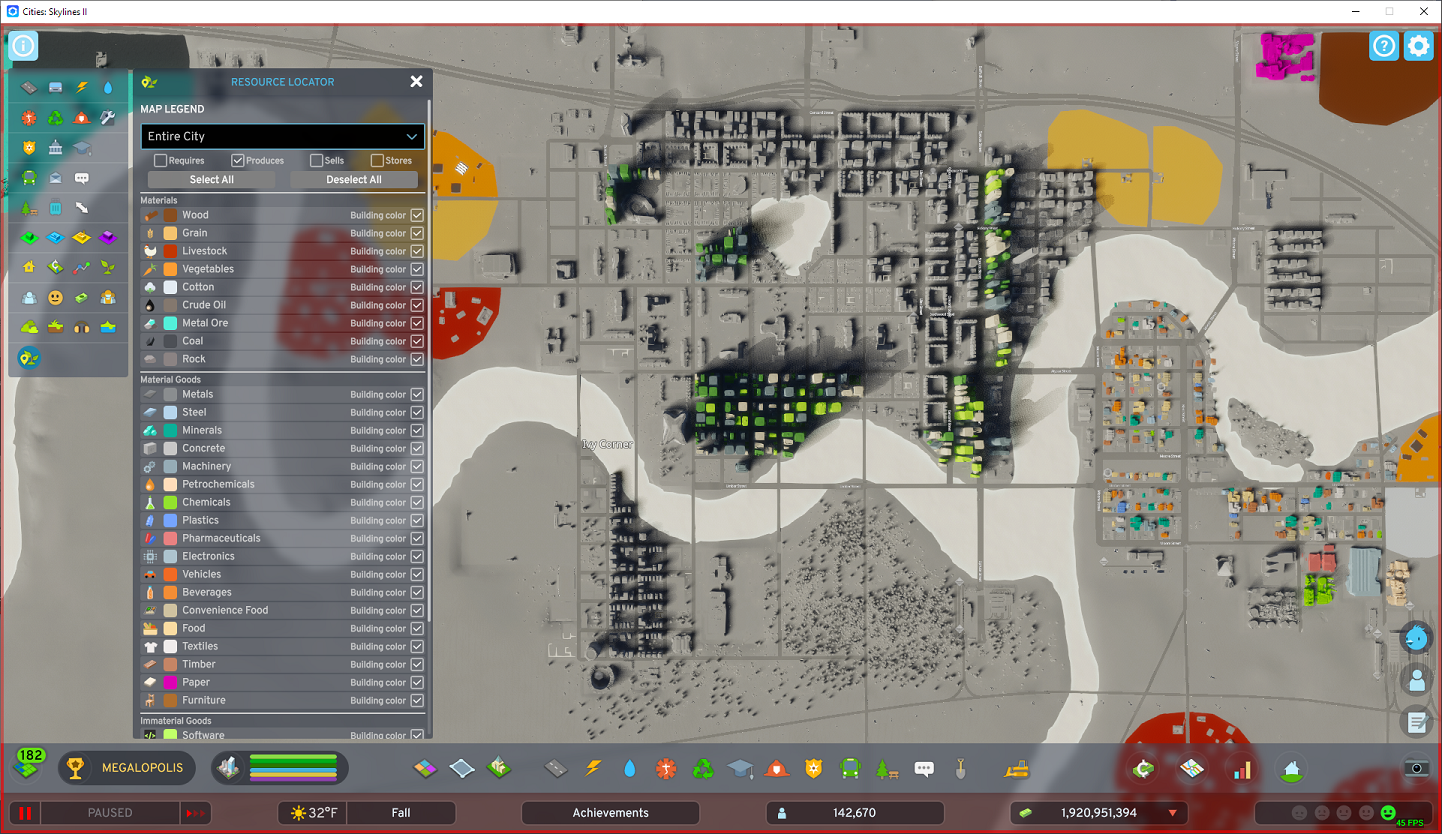
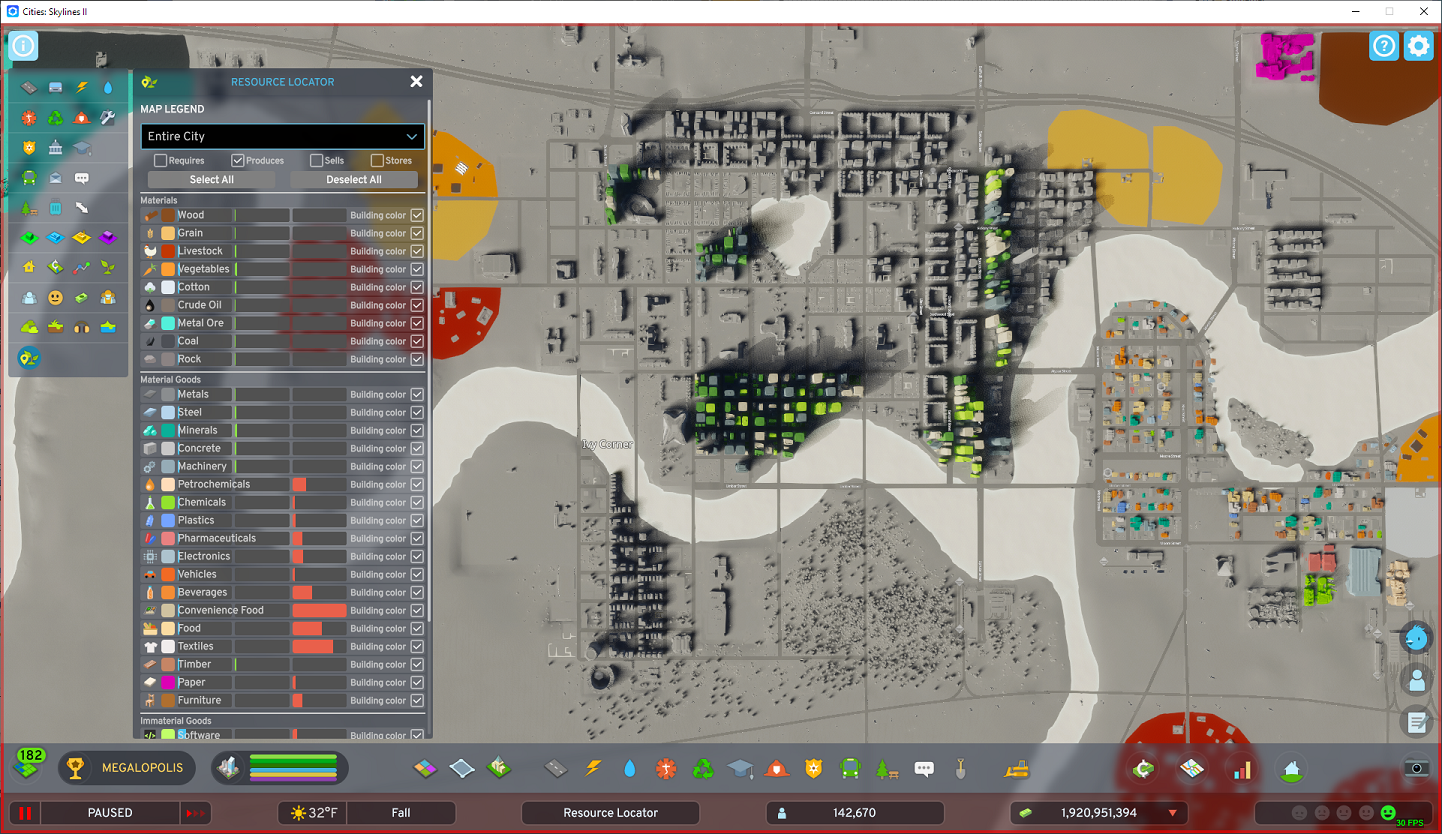
Version 1.1.0

Changed region(s): [[0.0936, 0.2494, 0.2497, 0.9041], [0.3745, 0.9664, 0.4681, 0.9976], [0.0624, 0.9664, 0.0936, 0.9976]]

diff --git a/UI/src/infomodeItem.tsx b/UI/src/infomodeItem.tsx
@@ -8,7 +8,7 @@ import   styles                           from "infomodeItem.module.scss";
 import   mod                              from "../mod.json";
 import { ModuleResolver                 } from "moduleResolver";
 import { uiBindingNames                 } from "uiBindings";
-import { RLBuildingType                 } from "uiConstants";
+import { DisplayOption, RLBuildingType  } from "uiConstants";
 import { UITranslationKey               } from "uiTranslationKey";
 
 // Define production info passed from C#.
@@ -36,8 +36,9 @@ interface InfomodeItemProps
 }
 
 // Define bindings.
+const bindingDisplayOption   = bindValue<number          >(mod.id, uiBindingNames.DisplayOption, DisplayOption.Requires);
 const bindingProductionInfos = bindValue<ProductionInfo[]>(mod.id, uiBindingNames.ProductionInfos);
-const bindingUnitSettings    = bindValue<UnitSettings>("options", "unitSettings");
+const bindingUnitSettings    = bindValue<UnitSettings    >("options", "unitSettings");
 
 // Custom infmode item.
 // Adapted from the base game's infomode logic.
@@ -53,26 +54,49 @@ export const InfomodeItem = ({ infomode, buildingType }: InfomodeItemProps) =>
     const surplusText        = translate("EconomyPanel.PRODUCTION_PAGE_SURPLUS")
     const deficitText        = translate("EconomyPanel.PRODUCTION_PAGE_DEFICIT")
 
-    // Get production info for this building type.
+    // Get display option.
+    const displayOption = useValue(bindingDisplayOption);
+
+    // Get production info.
     const productionInfos: ProductionInfo[] = useValue(bindingProductionInfos);
-    var production: number = 0;
-    var surplus:    number = 0;
-    var deficit:    number = 0;
+    var production:   number = 0;
+    var surplus:      number = 0;
+    var deficit:      number = 0;
+    var maxAllValues: number = 0;
     for (var i: number = 0; i < productionInfos.length; i++)
     {
+        // Check for building type of this infomode.
         const productionInfo: ProductionInfo = productionInfos[i];
         if (productionInfo.buildingType === buildingType)
         {
             production = productionInfo.production;
             surplus    = productionInfo.surplus;
             deficit    = productionInfo.deficit;
-            break;
         }
+
+        // Get max of all values.
+        maxAllValues = Math.max(maxAllValues, productionInfo.production, productionInfo.surplus, productionInfo.deficit);
     }
+
+    // Compute percents for production info values.
+    // Percent is computed compared to the max of all values.
+    // This matches the game's Production tab on the City Economy panel.
+    const percentProduction: number = maxAllValues === 0 ? 0 : Math.min(100 * production / maxAllValues, 100);
+    const percentSurplus:    number = maxAllValues === 0 ? 0 : Math.min(100 * surplus    / maxAllValues, 100);
+    const percentDeficit:    number = maxAllValues === 0 ? 0 : Math.min(100 * deficit    / maxAllValues, 100);
+
+    // Compute styles to display production info progress bars.
+    // Colors are same as on the game's Production tab on the City Economy panel.
+    const styleProductionColor:   Partial<CSSProperties> = { backgroundColor: "var(--progressColor)", }
+    const styleSurplusColor:      Partial<CSSProperties> = { backgroundColor: "var(--positiveColor)", }
+    const styleDeficitColor:      Partial<CSSProperties> = { backgroundColor: "var(--negativeColor)", }
+    const styleProductionPercent: Partial<CSSProperties> = { marginLeft: percentProduction + "%", }
+    const styleSurplusPercent:    Partial<CSSProperties> = { marginLeft: percentSurplus    + "%", }
+    const styleDeficitPercent:    Partial<CSSProperties> = { marginLeft: percentDeficit    + "%", }
 
     // Get maximum of production, surplus, and deficit.
     // This maximum is used so that production and surplus/deficit have the same scaling factor and units of measure.
-    const maxValue = Math.max(production, surplus, deficit);
+    const maxValue: number = Math.max(production, surplus, deficit);
 
     // Get scaling factor and unit of measure prefix and text.
     var scalingFactor: number = 1;
@@ -129,12 +153,9 @@ export const InfomodeItem = ({ infomode, buildingType }: InfomodeItemProps) =>
     }
 
     // Apply scaling factor.
-    if (scalingFactor !== 1)
-    {
-        production = Math.round(production / scalingFactor);
-        surplus    = Math.round(surplus    / scalingFactor);
-        deficit    = Math.round(deficit    / scalingFactor);
-    }
+    const scaledProduction: number = Math.round(production / scalingFactor);
+    const scaledSurplus:    number = Math.round(surplus    / scalingFactor);
+    const scaledDeficit:    number = Math.round(deficit    / scalingFactor);
 
     // Remove variable placeholders from unit of measure text.
     uomText = "" + uomText?.replace("{SIGN}{VALUE}", "");
@@ -152,9 +173,9 @@ export const InfomodeItem = ({ infomode, buildingType }: InfomodeItemProps) =>
     // Deficit has a positive value.
     // If both surplus and deficit are zero, the zero value will be shown as surplus.
     infomodeTooltip +=
-        "\n\n" +                productionText + ":  " + FormatValue(production) +
-        "\n\n" + (deficit > 0 ? deficitText    + ":  " + FormatValue(deficit   ) :
-                                surplusText    + ":  " + FormatValue(surplus   ));
+        "\n\n" +                productionText + ":  " + FormatValue(scaledProduction) +
+        "\n\n" + (deficit > 0 ? deficitText    + ":  " + FormatValue(scaledDeficit   ) :
+                                surplusText    + ":  " + FormatValue(scaledSurplus   ));
 
     // Get icon based on building type.
     // This logic assumes all building type enum names are the same as the resource file names.
@@ -203,15 +224,48 @@ export const InfomodeItem = ({ infomode, buildingType }: InfomodeItemProps) =>
                             <div className={joinClasses(ModuleResolver.instance.ColorLegendClasses.symbol,
                                                         ModuleResolver.instance.InfomodeItemClasses.color,
                                                         styles.resourceLocatorInfomodeColorSymbol)} style={symbolStyle}></div>
-                            <div className={ModuleResolver.instance.InfomodeItemClasses.titleText}>{infomodeTitle}</div>
-                        </div>
-                        <div className={ModuleResolver.instance.InfomodeItemClasses.type}>
-                            {buildingColor}
-                            <div className={joinClasses(ModuleResolver.instance.CheckboxClasses.toggle,
-                                                        ModuleResolver.instance.InfomodeItemClasses.checkbox,
-                                                        (infomode.active ? "checked" : "unchecked"))}>
-                                <div className={joinClasses(ModuleResolver.instance.CheckboxClasses.checkmark,
-                                                            (infomode.active ? "checked" : ""))}></div>
+                            {
+                                displayOption === DisplayOption.Produces &&
+                                (
+                                    <div className={styles.resourceLocatorInfomodeProducesBars}>
+                                        <div className={styles.resourceLocatorInfomodeProducesBar}>
+                                            <div className={styles.resourceLocatorInfomodeProducesBarPercent} style={styleProductionColor}>
+                                                <div className={styles.resourceLocatorInfomodeProducesBarCover} style={styleProductionPercent}></div>
+                                            </div>
+                                        </div>
+                                        <div className={styles.resourceLocatorInfomodeProducesBar}>
+                                            <div className={styles.resourceLocatorInfomodeProducesBarPercent} style={styleSurplusColor}>
+                                                <div className={styles.resourceLocatorInfomodeProducesBarCover} style={styleSurplusPercent}></div>
+                                            </div>
+                                        </div>
+                                        <div className={styles.resourceLocatorInfomodeProducesBar}>
+                                            <div className={styles.resourceLocatorInfomodeProducesBarPercent} style={styleDeficitColor}>
+                                                <div className={styles.resourceLocatorInfomodeProducesBarCover} style={styleDeficitPercent}></div>
+                                            </div>
+                                        </div>
+                                        <div className={styles.resourceLocatorInfomodeProducesResourceLabel}>
+                                            {infomodeTitle}
+                                        </div>
+                                    </div>
+                                )
+                            }
+                            {
+                                displayOption !== DisplayOption.Produces &&
+                                (
+                                    <div className={styles.resourceLocatorInfomodeGeneralResourceLabel}>
+                                        {infomodeTitle}
+                                    </div>
+                                )
+                            }
+                            <div className={joinClasses(ModuleResolver.instance.InfomodeItemClasses.type,
+                                                        styles.resourceLocatorInfomodeBuildingColor)}>
+                                {buildingColor}
+                                <div className={joinClasses(ModuleResolver.instance.CheckboxClasses.toggle,
+                                    ModuleResolver.instance.InfomodeItemClasses.checkbox,
+                                    (infomode.active ? "checked" : "unchecked"))}>
+                                    <div className={joinClasses(ModuleResolver.instance.CheckboxClasses.checkmark,
+                                        (infomode.active ? "checked" : ""))}></div>
+                                </div>
                             </div>
                         </div>
                     </div>

diff --git a/UI/src/infomodeItem.module.scss b/UI/src/infomodeItem.module.scss
@@ -13,11 +13,75 @@
 .resourceLocatorInfomodeIcon {
     height:             22rem;          // Larger than building color check box because all resource icons have extra blank space.
     width:              22rem;          // Match height.
-    margin-right:       7rem;           // Space between icon and color symbol.
+    margin-right:       4rem;           // Space between icon and color symbol.
 }
 
 .resourceLocatorInfomodeColorSymbol {
     height:             18rem;          // Match height of building color check box.
     width:              18rem;          // Match height.
-    margin-right:       7rem;           // Space between color symbol and title.
+    margin-right:       4rem;           // Space between color symbol and title.
+}
+
+.resourceLocatorInfomodeProducesBars {
+    display:            flex;
+    flex-direction:     row;
+    flex-grow:          1;
+    flex-shrink:        1;
+    flex-basis:         auto;
+    position:           relative;
+    height:             18rem;
+}
+
+.resourceLocatorInfomodeProducesBar {
+    margin-right:       4rem;
+    height:             18rem;
+    flex-grow:          1;
+    flex-basis:         32%;    // Less than 33.33% to provide space for right margin.
+
+    // Copied from game's Production progress bars:
+    background-color:   rgba(0, 0, 0, 0.22);
+    border-radius:      3rem;
+    position:           relative;
+}
+
+.resourceLocatorInfomodeProducesBarPercent {
+    width:              100%;
+    height:             100%;
+    position:           relative;
+    overflow-x:         hidden;
+    overflow-y:         hidden;
+    border-radius:      3rem;
+}
+
+.resourceLocatorInfomodeProducesBarCover {
+    width:              100%;
+    height:             100%;
+    position:           relative;
+    overflow-x:         hidden;
+    overflow-y:         hidden;
+    background-color:   rgba(80, 80, 80, 1);
+}
+
+.resourceLocatorInfomodeProducesResourceLabel {
+    position:           absolute;
+    // Set top so that text is centered vertically based on font size.
+    top:                calc(-2rem - (10rem * (var(--fontScale) - 1)));
+    left:               0px;
+    bottom:             0px;
+    right:              0px;
+    font-size:          var(--fontSizeS)
+}
+
+.resourceLocatorInfomodeGeneralResourceLabel {
+    // Set top margin to align general text with Produces text.
+    margin-top:         calc(-4rem - (15rem * (var(--fontScale) - 1)));
+    flex-grow:          1;
+    flex-shrink:        1;
+    font-size:          var(--fontSizeS);
+    height:             18rem;
+}
+
+.resourceLocatorInfomodeBuildingColor {
+    flex-grow:          0;
+    flex-shrink:        0;
 }

diff --git a/Systems/BuildingColorSystem.cs b/Systems/BuildingColorSystem.cs
@@ -1191,14 +1191,14 @@ namespace ResourceLocator
             // Prevent these jobs from running again until last job is complete.
             base.Dependency = jobHandleSubObject;
 
-            // Wait for the main building job to complete.
+            // Wait for the attachment building job to complete.
             // This seems to help prevent screen flicker.
-            jobHandleMainBuilding.Complete();
+            jobHandleAttachmentBuilding.Complete();
             
             // Dispose of native collections no longer needed once the main building job is complete.
             activeInfomodes.Dispose();
 
-            // Note that the jobs after the main building job could still be executing at this point, which is okay.
+            // Note that the jobs after the attachment building job could still be executing at this point, which is okay.
 
             // This system handled building colors for this mod's infoview.
             // Do not execute the original game logic.

diff --git a/ModAssemblyInfo/ModAssemblyInfo.cs b/ModAssemblyInfo/ModAssemblyInfo.cs
@@ -10,7 +10,7 @@ namespace ResourceLocator
     public class ModAssemblyInfo
     {
         public const string Name        = "ResourceLocator";
-        public const string Version     = "1.0.1";
+        public const string Version     = "1.1.0";
         public const string Title       = "Resource Locator";
         public const string Description = "New info view to locate buildings where resources are required, produced, sold, and stored.";
     }

diff --git a/ReadMe.md b/ReadMe.md
@@ -35,6 +35,7 @@ Hover the cursor over a resource to get additional information about that resour
 - Whether this resource can be imported/exported or the resource is available only locally.
 - The current production of this resource.
 - The current surplus or deficit of this resource.
+- When the Produces Display Option is selected, the production, surplus, and deficit are shown in 3 bars behind the resource name.
 - All of the above is the same information available on the Production tab of the City Economy view.
 
 ### Building Colors

diff --git a/ChangeLog.md b/ChangeLog.md
@@ -1,1 +1,1 @@
-- Fix bad screenshots.
+- Add production, surplus, and deficit bars to the Produces view.
